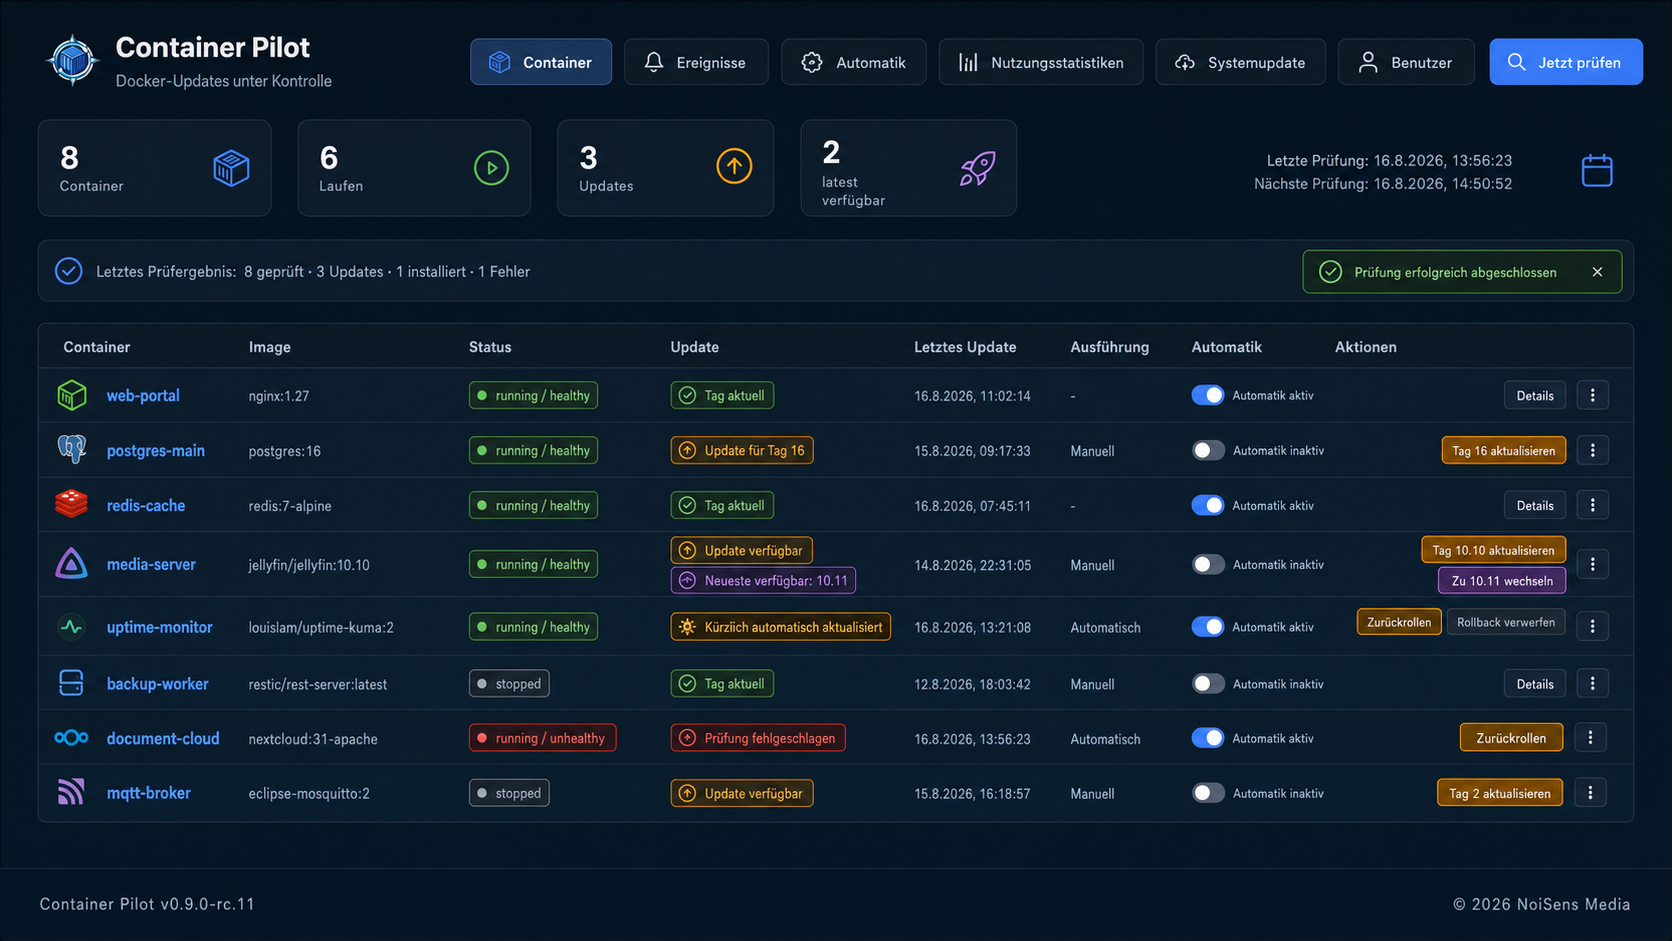
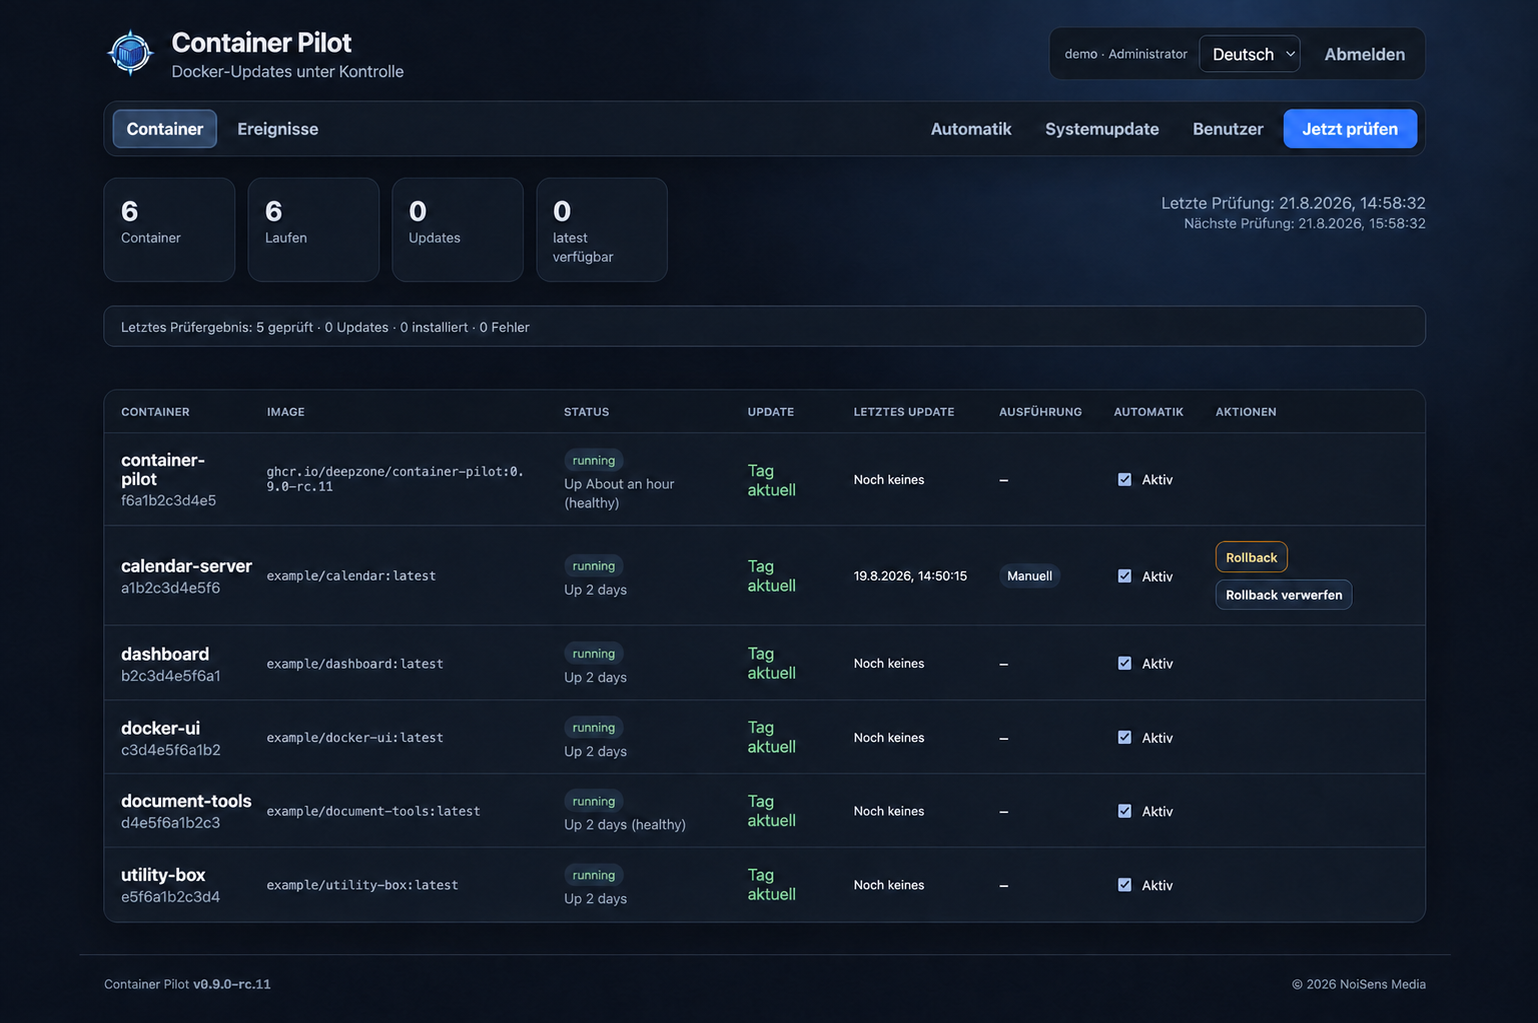
docs: use authentic anonymized dashboard screenshot (#23)

diff --git a/README.de.md b/README.de.md
@@ -22,9 +22,9 @@ Der Schwerpunkt liegt auf einem nachvollziehbaren Update-Workflow mit **konfigur
 
 ## Einblick
 
-![Vollständiges Container-Pilot-RC11-Dashboard mit fiktiven Containern, Status, Updates, Automatik und Rollback-Aktionen](docs/container-pilot-overview.png)
+![Authentisches Container-Pilot-RC11-Dashboard mit anonymisierten Beispieldaten](docs/container-pilot-overview.png)
 
-*Vollständige RC11-Produktansicht mit rein fiktiven Daten: laufende und gestoppte Container, Health-Status, verfügbare Updates, Automatik pro Container, manuelle Aktionen und Rollback-Funktionen sind auf einen Blick sichtbar.*
+*Authentischer Screenshot der aktuellen RC11-Oberfläche. Ausschließlich instanzbezogene Daten wie Container- und Image-Namen, IDs, Benutzername und Serveradresse wurden anonymisiert; Oberfläche und dargestellte Funktionen sind unverändert.*
 
 ## Warum ein eigener Docker Update Manager?
 

diff --git a/README.md b/README.md
@@ -23,9 +23,9 @@ The project is currently a **release candidate**. Test it with non-critical work
 
 ## Product preview
 
-![Complete Container Pilot RC11 dashboard with fictional containers, health states, updates, automation, and rollback actions](docs/container-pilot-overview.png)
+![Authentic Container Pilot RC11 dashboard with anonymized demonstration data](docs/container-pilot-overview.png)
 
-*A complete RC11 product view using fictional data to demonstrate running and stopped containers, health states, available updates, per-container automation, manual actions, and rollback controls at a glance.*
+*Authentic screenshot of the current RC11 interface. Only instance-specific data such as container names, image names, IDs, user name, and server address has been anonymized; the interface and displayed functions are unchanged.*
 
 ## Quick start
 
